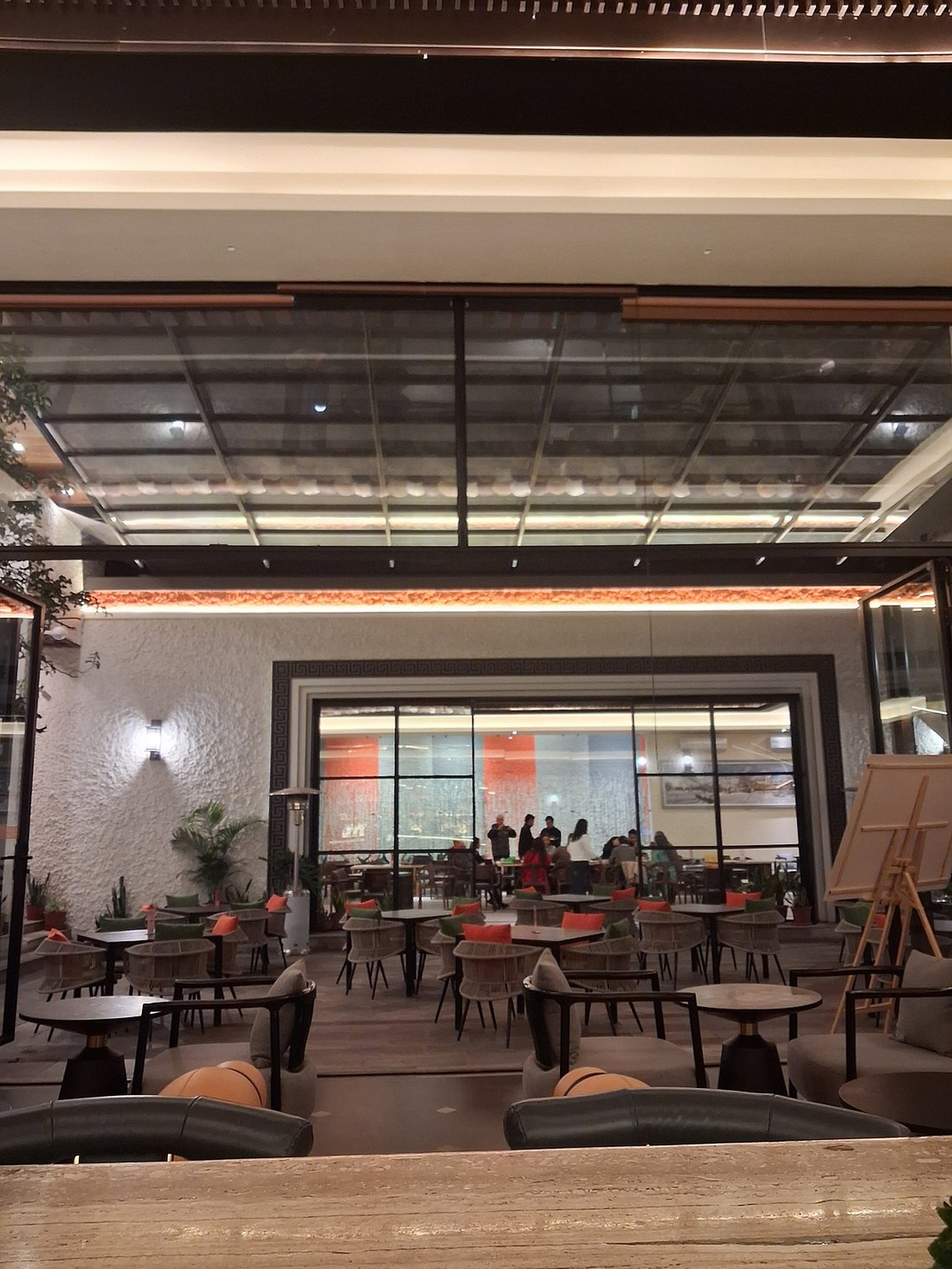
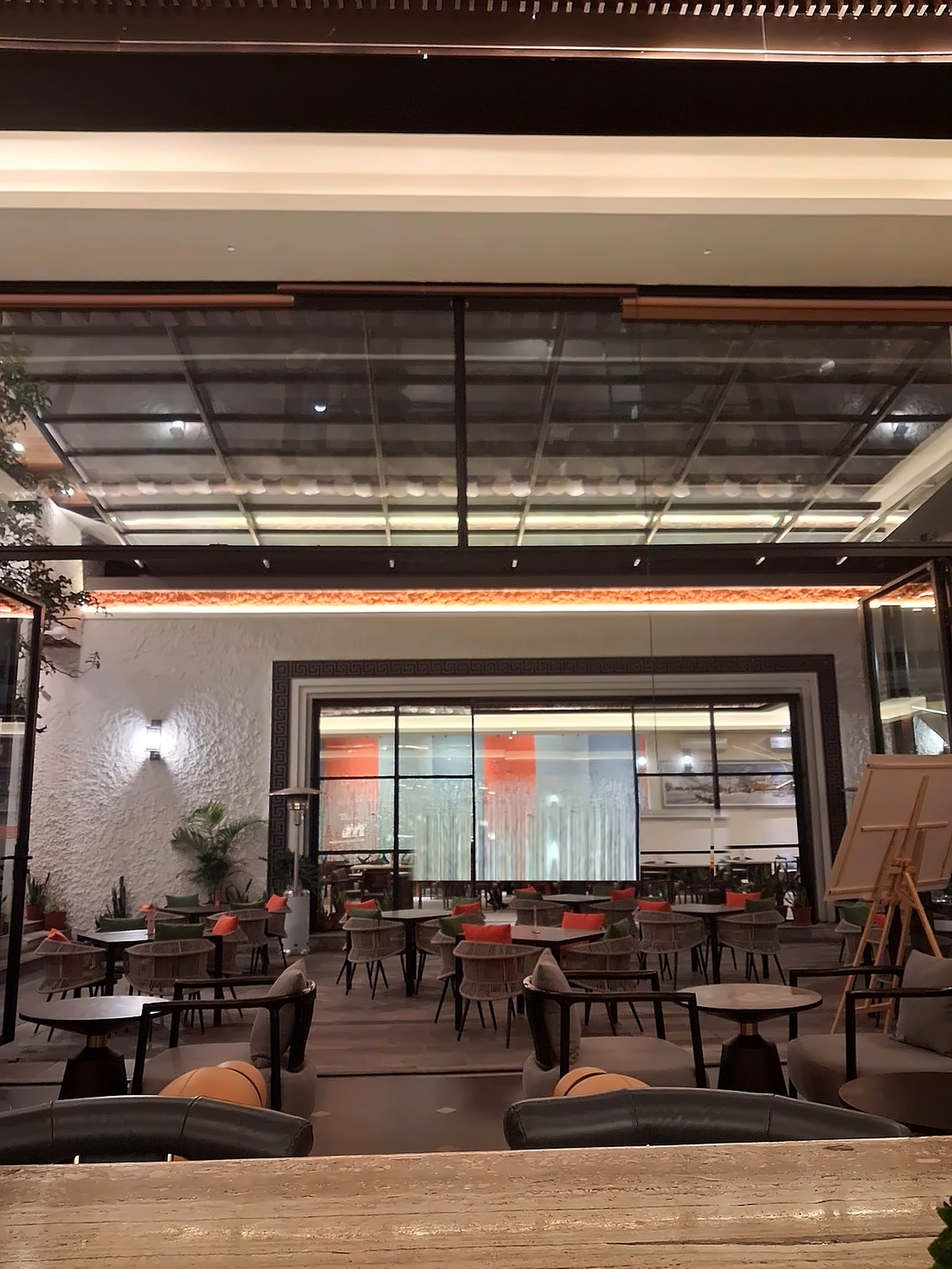
feat: eliminate background people and enhance quality in hero.jpg; make mountain background visible from section start in testimonials

Changed region(s): [[0.4062, 0.625, 0.7812, 0.7188]]

diff --git a/client/src/pages/LandingPage.jsx b/client/src/pages/LandingPage.jsx
@@ -216,15 +216,15 @@ export default function LandingPage({ setActivePage, onOpenDish, onAddToTray, me
       {/* ========================================================================= */}
       <section className="w-full relative pt-16 sm:pt-20 pb-24 sm:pb-28 px-0 bg-[#FCFAF7] text-obsidian-950 overflow-hidden border-b border-obsidian-200/80">
         
-        {/* Real Himalayan Mountain Background Image */}
+        {/* Real Himalayan Mountain Background Image - Visible from the very start of the section */}
         <div className="absolute inset-0 pointer-events-none overflow-hidden select-none z-0">
           <img
-            src="/himalayas-panorama.jpg"
-            alt="Himalayan Mountain Range"
-            className="w-full h-full object-cover object-bottom opacity-[0.35] filter grayscale contrast-125"
+            src="/himalayas-bg.jpg"
+            alt="Himalayan Mountain Range Peaks"
+            className="w-full h-full object-cover object-[center_top] opacity-[0.55] contrast-105 saturate-90"
           />
-          {/* Subtle warm wash ensuring pristine readability and pure white atmosphere */}
-          <div className="absolute inset-0 bg-gradient-to-b from-[#FCFAF7] via-[#FCFAF7]/50 to-[#FCFAF7]" />
+          {/* Gentle atmospheric wash keeping mountain peaks crisp from the top while ensuring card readability */}
+          <div className="absolute inset-0 bg-gradient-to-b from-[#FCFAF7]/15 via-[#FCFAF7]/40 to-[#FCFAF7]/85" />
         </div>
 
         {/* Section Header */}
